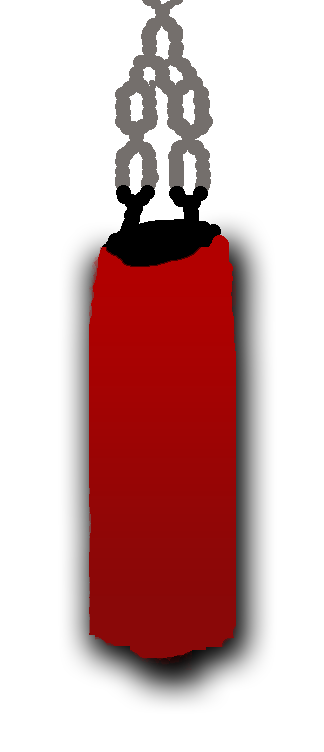
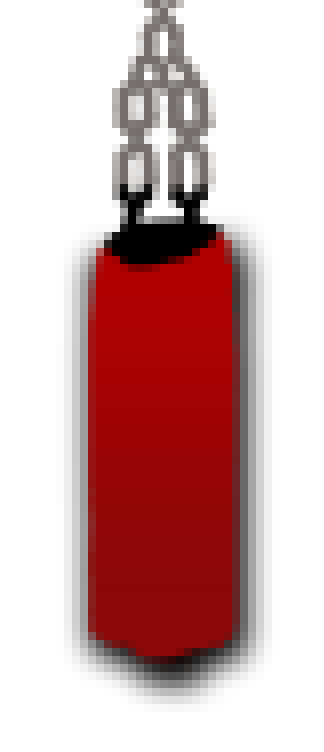
saco añadido al training

diff --git a/src/MF-FighterTraighter/MF-FighterTraighter/Training.cpp b/src/MF-FighterTraighter/MF-FighterTraighter/Training.cpp
@@ -24,12 +24,12 @@ void Training::init()
 	entManager_.setHandler(CharFactory::addCharacterToGame(app_, this, -1, world, &app_->getGameManager()->getPlayerInfo(2), PLAYER_2, BOUNDARY | P_BAG | WALLS, 1), ecs::Player2);
 	
 	Entity* saco = entManager_.addEntity();
-	PhysicsTransform* pBpT = saco->addComponent<PhysicsTransform>(Vector2D(app_->getWindowManager()->getCurResolution().w / 2, app_->getWindowManager()->getCurResolution().h - 455), Vector2D(10, 10), 150, 500, 0, world, P_BAG, PLAYER_1 | PLAYER_2 | BULLET, 2);
+	PhysicsTransform* pBpT = saco->addComponent<PhysicsTransform>(Vector2D(app_->getWindowManager()->getCurResolution().w / 2, app_->getWindowManager()->getCurResolution().h - 655), Vector2D(10, 10), 250, 800, 0, world, P_BAG, PLAYER_1 | PLAYER_2 | BULLET, 2);
 	addHurtbox(pBpT->getMainFixture());
 	pBpT->resetUserData(new PunchingBagOnHit(saco));
 	pBpT->changeFriction(0);
 	//addHurtbox()
-	saco->addComponent<RenderImage>(app_->getAssetsManager()->getTexture(AssetsManager::Player));
+	saco->addComponent<RenderImage>(app_->getAssetsManager()->getTexture(AssetsManager::Saco));
 	//saco->addComponent<PunchingBagOnHit>();
 	Health* sacoHealth = saco->addComponent<Health>(200);
 	//saco->addComponent<SacoTimer>(5000);

diff --git a/src/MF-FighterTraighter/MF-FighterTraighter/AssetsManager.cpp b/src/MF-FighterTraighter/MF-FighterTraighter/AssetsManager.cpp
@@ -18,6 +18,7 @@ Texture* AssetsManager::getTexture(AssetsManager::TextureNames id)
 void AssetsManager::loadTextures()
 {
 	textures_.emplace(Player, new Texture(app_->getRenderer(), "../../../../assets/Assets/personaje.png", 1, 1));
+	textures_.emplace(Saco, new Texture(app_->getRenderer(), "../../../../assets/Assets/images/characters/saco.png", 1, 1));
 	textures_.emplace(Button, new Texture(app_->getRenderer(), "../../../../assets/Assets/images/UI/buttons.png", 3, 1));
 	textures_.emplace(Logo, new Texture(app_->getRenderer(), "../../../../assets/Assets/images/UI/logo.png", 1, 1));
 	textures_.emplace(Controller, new Texture(app_->getRenderer(), "../../../../assets/Assets/images/UI/controller.png", 1, 1));

diff --git a/src/MF-FighterTraighter/MF-FighterTraighter/AssetsManager.h b/src/MF-FighterTraighter/MF-FighterTraighter/AssetsManager.h
@@ -13,6 +13,7 @@ class AssetsManager
 public:
 	enum TextureNames {
 		Player,
+		Saco,
 		Button,
 		Logo,
 		Controller,
